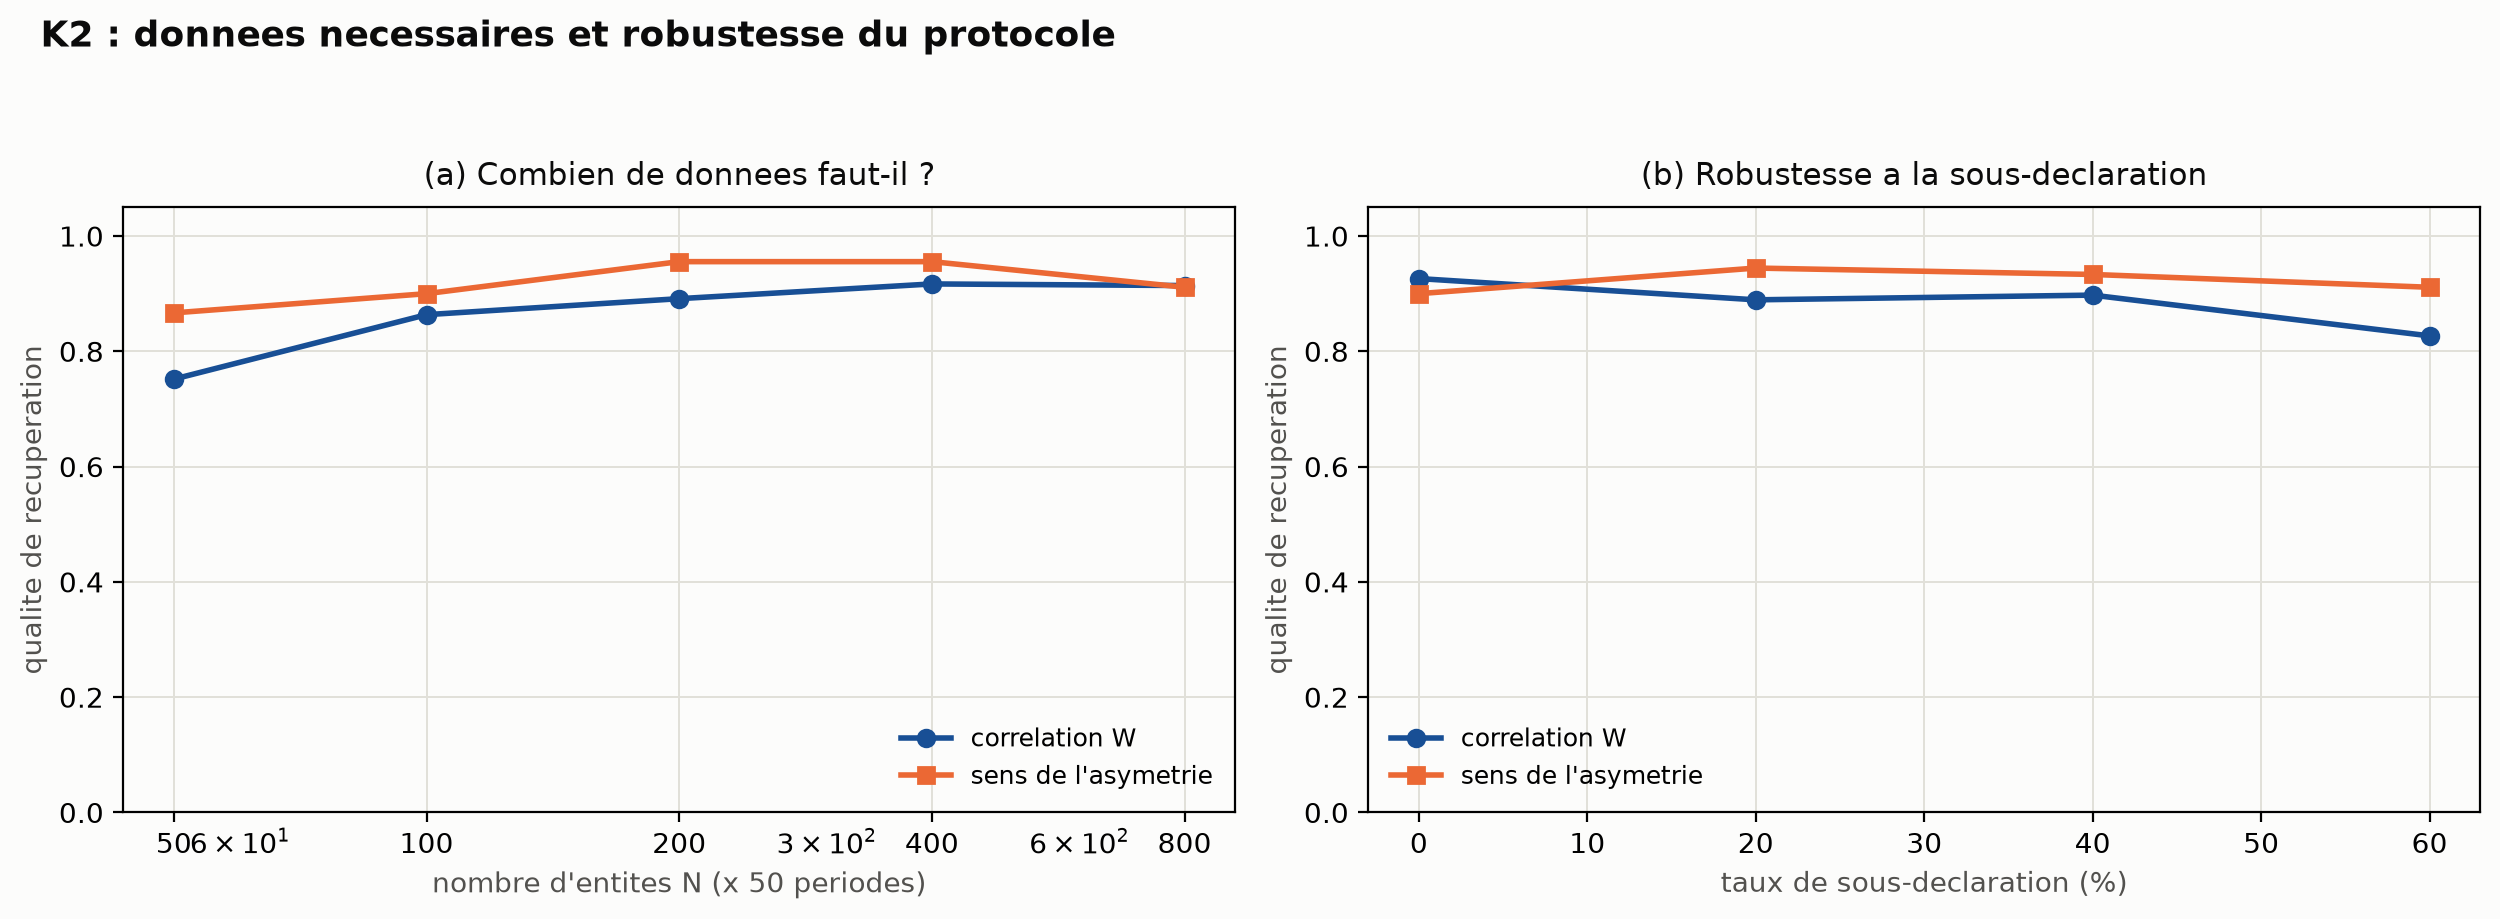
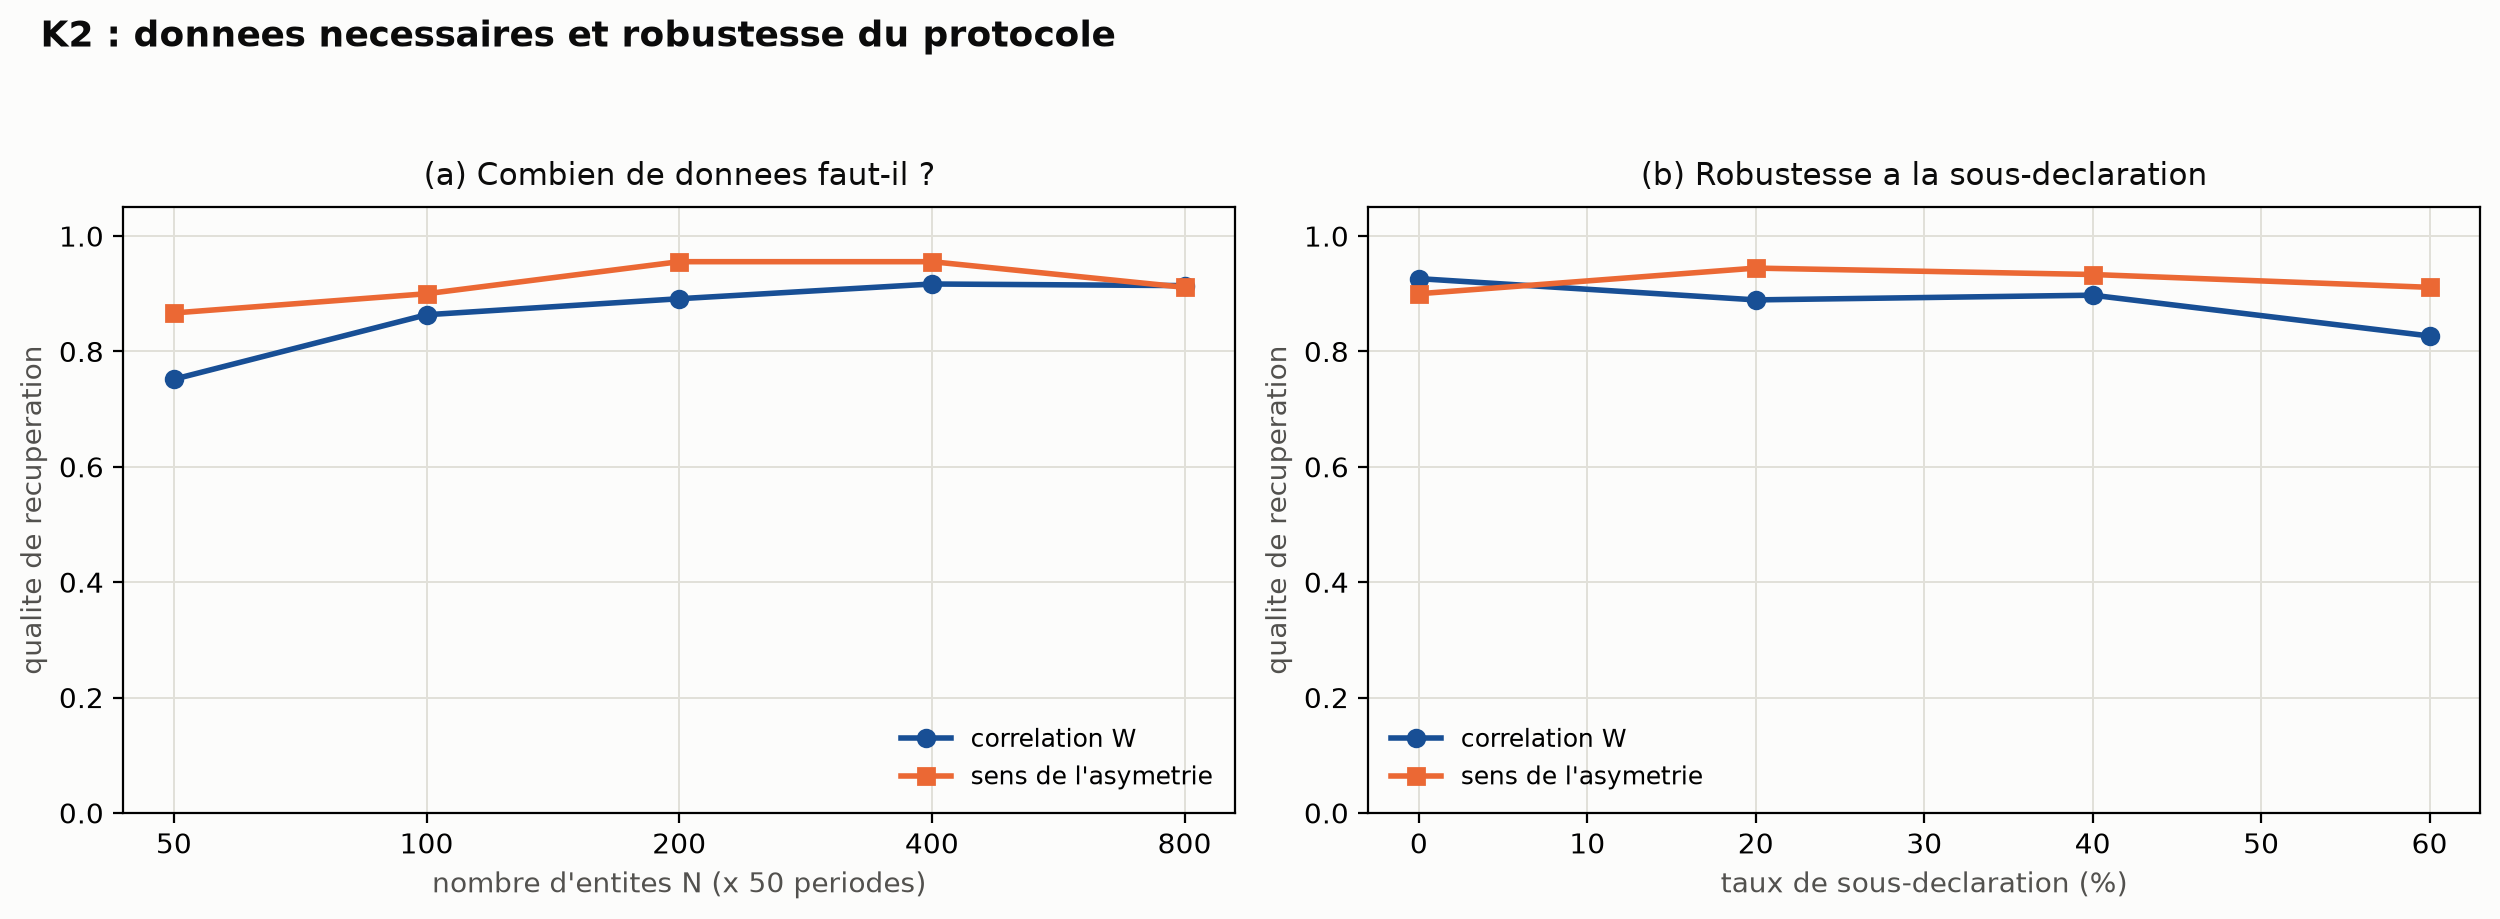
Note Vasicek : ajoute la section calibration de W (7 p.)
- note_vasicek_dirige : nouvelle section "Calibrer W" (modele dynamique
  d'estimation, regression logistique par pilier sur incidents retardes,
  figures K1/K2, encadre de portee honnete). PDF recompile, 7 pages.
- 03_calibration_W.py : etiquettes mineures de l'axe log supprimees (K2 propre).
- K2 regenere.

diff --git a/exploratory/vasicek_lab/note_vasicek_dirige.tex b/exploratory/vasicek_lab/note_vasicek_dirige.tex
@@ -299,6 +299,53 @@ non-stationnarité). La défendabilité vient de la \emph{plausibilité du modè
 cyber}, pas de ce test.
 \end{attention}
 
+\section{Calibrer $W$ : un protocole prêt pour les données}
+
+Comment estimera-t-on $W$ sur des données réelles ? On décrit le protocole et on le
+\textbf{valide sur des données simulées} dont on connaît la vérité.
+
+\begin{cle}
+\textbf{Point d'identification.} L'asymétrie de $W$ (qui entraîne qui) ne s'identifie que par
+l'information \textbf{temporelle} : qui déclenche \emph{avant} qui. La co-occurrence
+transversale seule ne donne qu'une dépendance \emph{symétrique}, la limite établie en
+introduction. Le modèle de calibration est donc \textbf{dynamique}.
+\end{cle}
+
+\noindent Pour l'entité~$i$, le pilier~$j$ et la période~$t$ :
+\begin{equation}
+X_{ij,t} = \text{base}_j + \sum_{k\neq j} W_{jk}\,D_{ik,t-1} + s_j\,\Y_{j,t} + \eps_{ij,t},
+\qquad D_{ij,t} = \mathbf 1\{X_{ij,t} \ge 0\},
+\end{equation}
+où $D_{ik,t-1}$ indique si le pilier~$k$ a subi un incident à la période précédente.
+
+\paragraph{Estimateur.} Pour chaque pilier~$j$, une \textbf{régression logistique} de $D_{ij,t}$
+sur les incidents \emph{retardés} des autres piliers $\{D_{ik,t-1}\}_{k\neq j}$, avec des effets
+fixes de période qui absorbent le systémique $\Y_{j,t}$. Les coefficients estiment la ligne~$j$
+de $W$. Simple, interprétable, et directement une matrice dirigée.
+
+\begin{figure}[htbp]\centering
+\includegraphics[width=\linewidth]{figures/K1_calibration_W.png}
+\caption{Sur un panel simulé, l'estimateur retrouve la structure dirigée de $W$ : corrélation
+$0{,}97$ entre estimation et vérité, sens de l'asymétrie correct pour $100\%$ des paires.
+L'estimé est en unités logit (échelle différente), mais la structure et les magnitudes
+\emph{relatives} sont exactes, le résultat défendable.}
+\end{figure}
+
+\begin{figure}[htbp]\centering
+\includegraphics[width=\linewidth]{figures/K2_calibration_diagnostics.png}
+\caption{(a) Quelques centaines d'entités suffisent : la corrélation passe de $0{,}75$
+($N=50$) à $0{,}92$ ($N\ge 400$). (b) La récupération résiste à la sous-déclaration jusqu'à
+$60\%$ : tronquer les petits incidents n'efface pas le sens de la propagation.}
+\end{figure}
+
+\begin{attention}
+\textbf{Portée.} Le monde simulé est propre (signal net, estimateur bien spécifié). Le
+protocole établit que la méthode est \textbf{consistante} et chiffre le besoin en données ;
+il ne prétend pas que la calibration réelle sera aussi facile (données plus bruitées,
+périodes plus courtes, confusion possible). La brique méthodologique est acquise : il ne
+manque que le \textbf{panel d'incidents daté}.
+\end{attention}
+
 \section{Récapitulatif : le modèle en un tableau}
 
 \begin{table}[htbp]\centering\small

diff --git a/exploratory/vasicek_lab/03_calibration_W.py b/exploratory/vasicek_lab/03_calibration_W.py
@@ -201,6 +201,7 @@ ax1.plot(sizes, corr_by_n, "-o", color=BLUES[4], lw=2, label="correlation W")
 ax1.plot(sizes, dir_by_n, "-s", color=ACCENT, lw=2, label="sens de l'asymetrie")
 ax1.set_xscale("log")
 ax1.set_xticks(sizes); ax1.set_xticklabels([str(s) for s in sizes])
+ax1.xaxis.set_minor_formatter(mpl.ticker.NullFormatter())
 ax1.tick_params(axis="x", which="minor", bottom=False)
 ax1.set_xlabel("nombre d'entites N (x 50 periodes)", color=INK2)
 ax1.set_ylabel("qualite de recuperation", color=INK2)